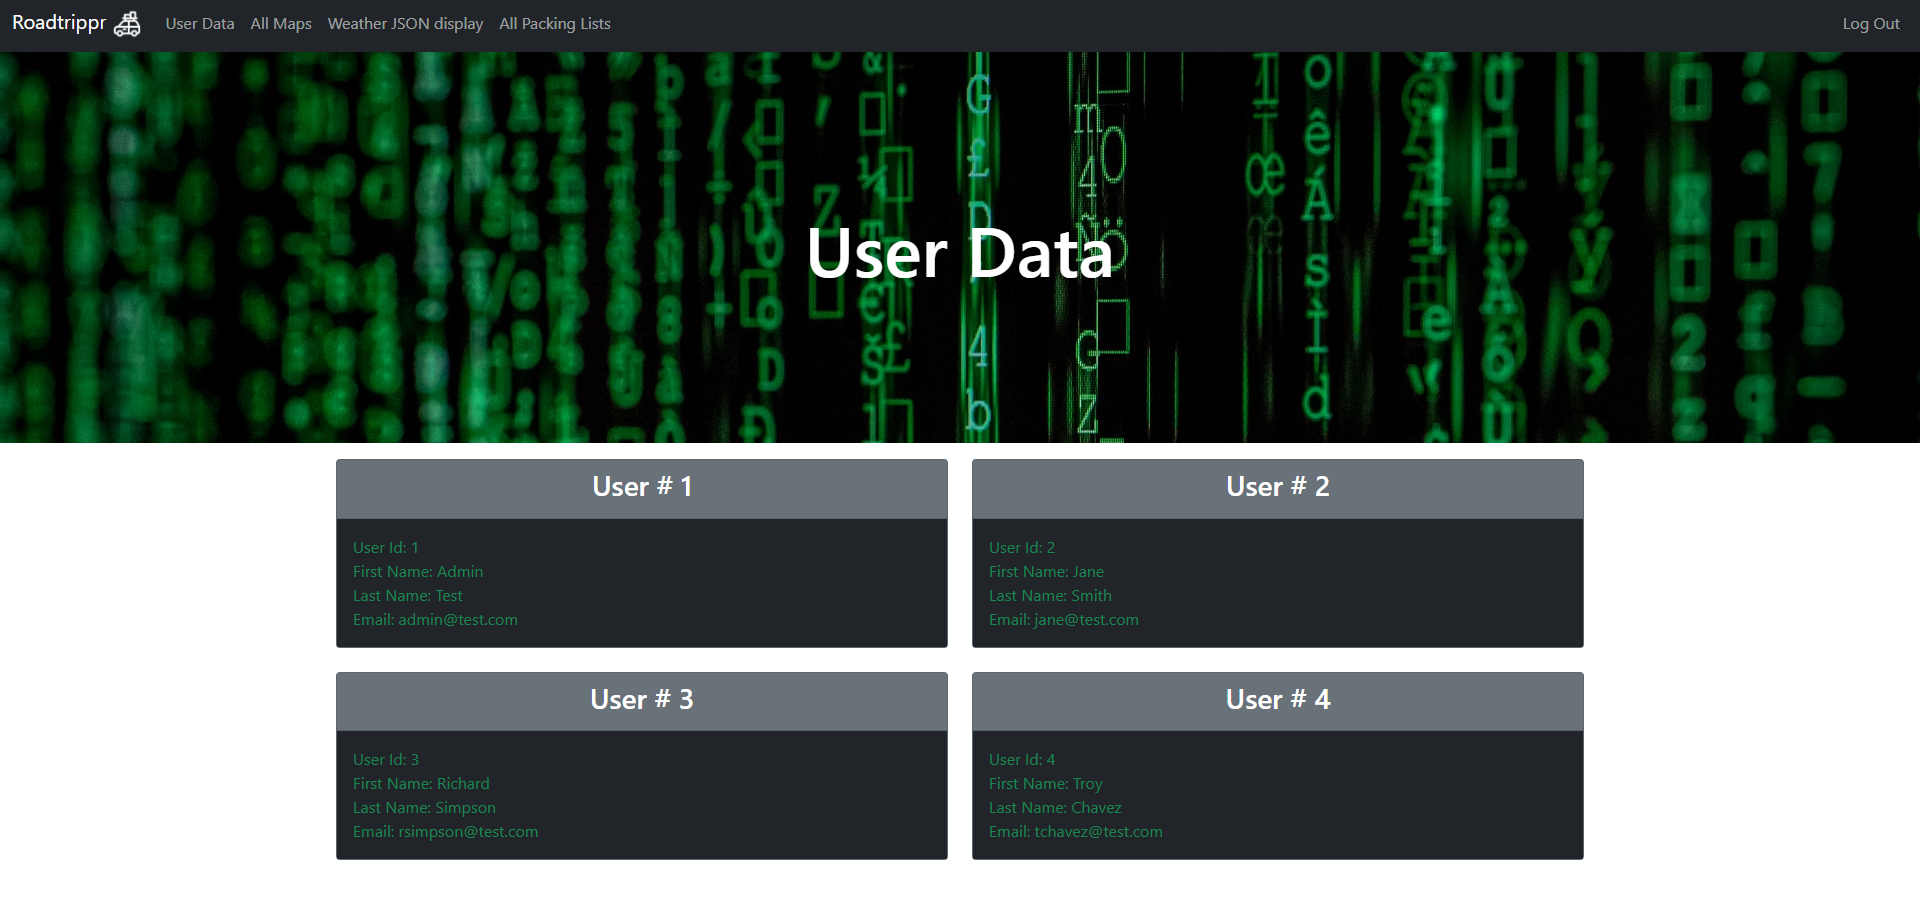
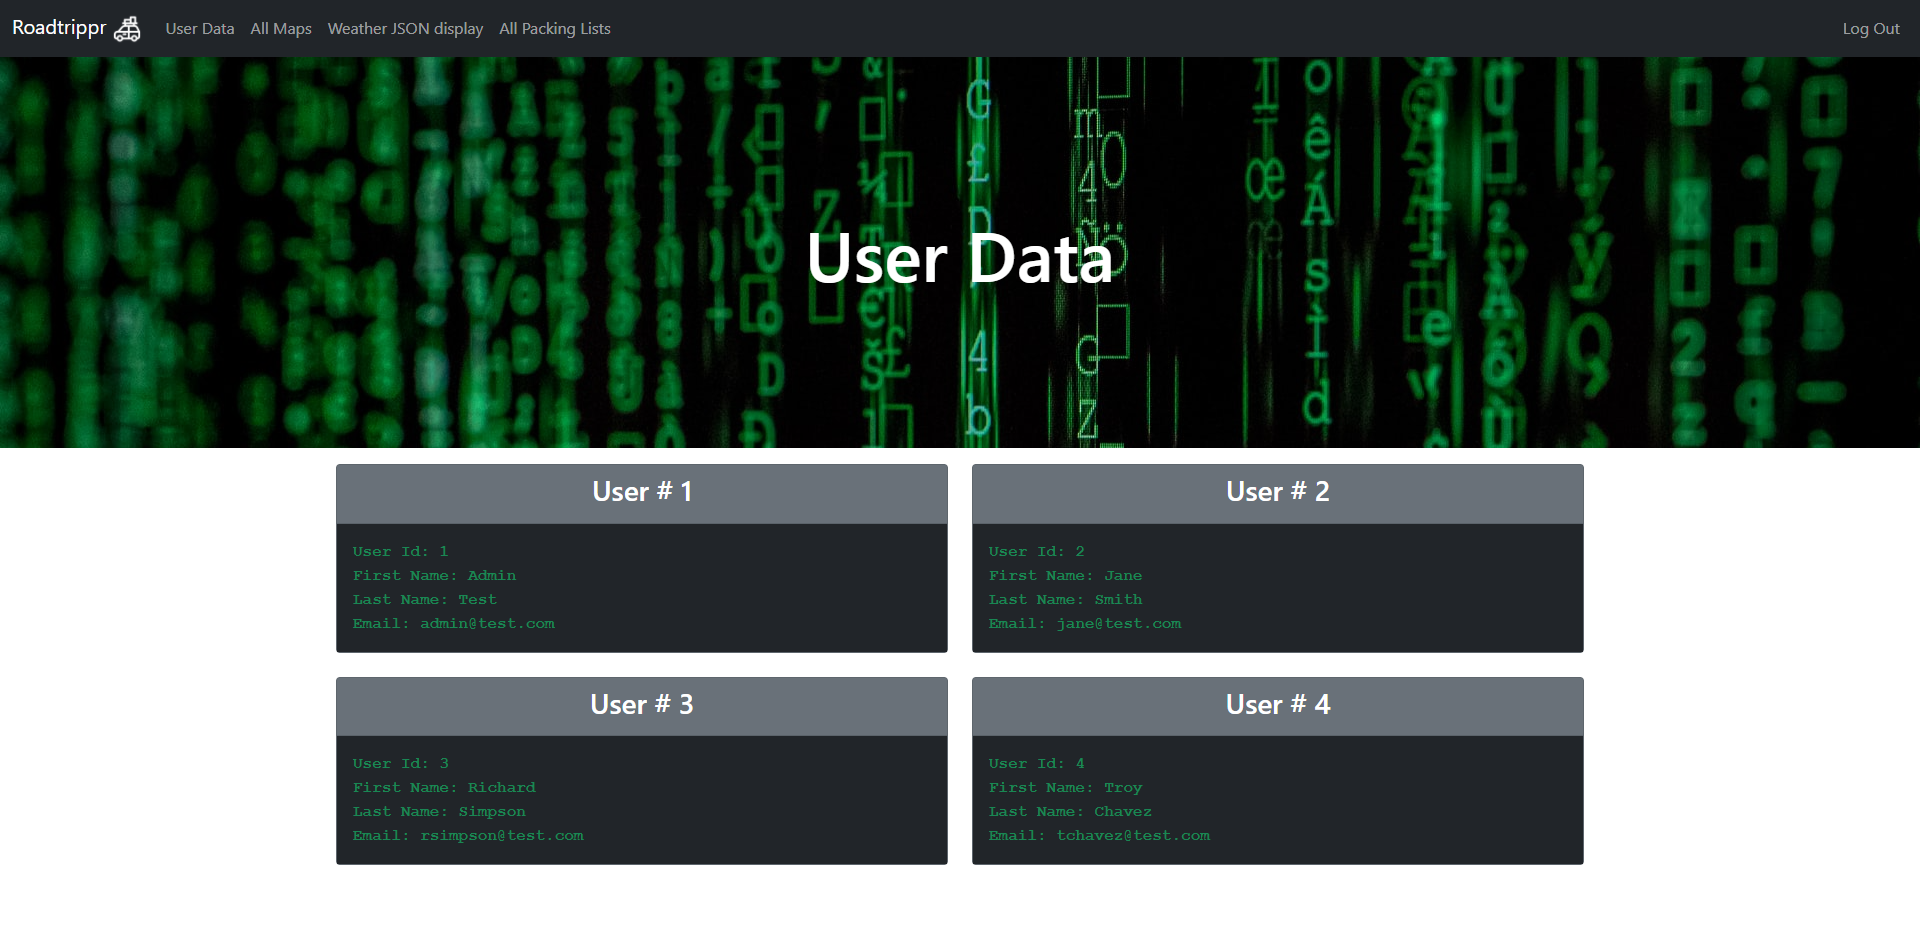
update styling

diff --git a/templates/users.html b/templates/users.html
@@ -31,7 +31,7 @@
                         </center>
                     </div>
                 
-                    <div class="card-body mx-left text-success bg-dark">
+                    <div id="user-data" class="card-body mx-left text-success bg-dark">
 
                         User Id: {{user.user_id}}
                         <br>

diff --git a/static/css/user-data.css b/static/css/user-data.css
@@ -1,6 +1,5 @@
 body{
     overflow-x: hidden;
-
 }
 
 header{
@@ -17,4 +16,10 @@ h2{
     padding-top: 8%;
     color: white;
     padding-bottom: 8%;
+}
+
+#user-data{
+    font-family: 'Courier New', Courier, monospace;
+    font-weight: bold;
+
 }
